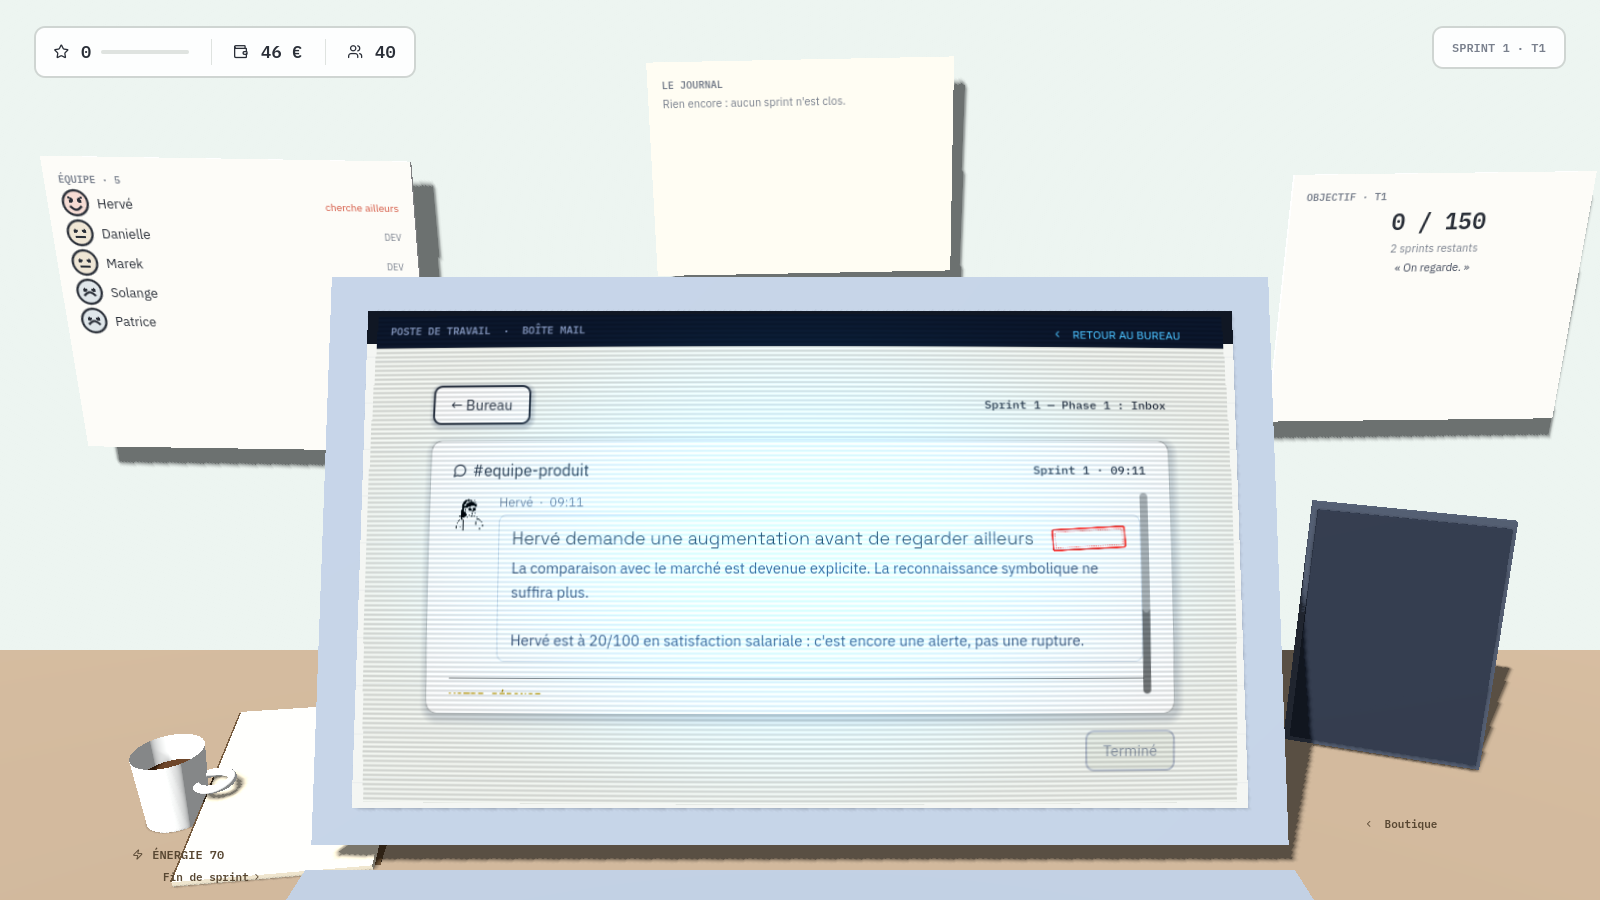
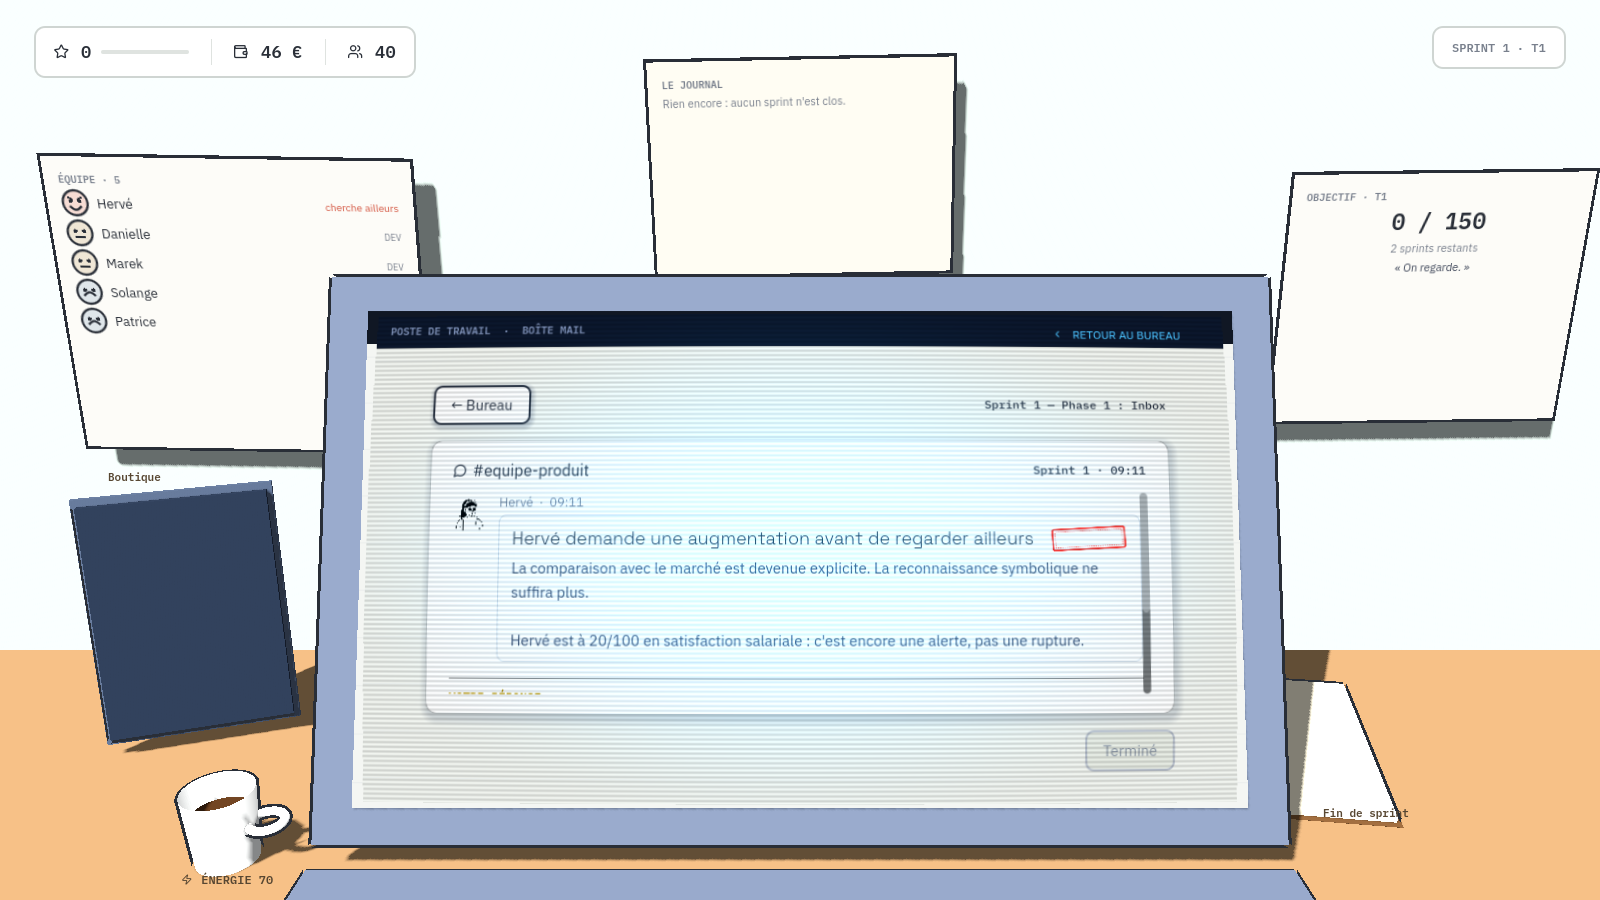
Inverse étal et clôture, et passe le décor en rendu dessiné
Deux retours de Camille sur le lot #59.

Le sens de lecture
------------------
L'étal du sprint passe à gauche, la clôture à droite. On achète avant
de clore, et l'œil va de gauche à droite : la première version
demandait de traverser l'écran à rebours pour finir son sprint. Le
parapheur du Comité reste à droite, derrière la clôture — il appartient
au même moment du sprint. La tasse suit à gauche, sous la tablette.

Le parti pris de rendu
----------------------
Le décor passe du réaliste au dessiné, par trois réglages mutualisés
dans `DeskRoom` :

- `toon_material()` coupe le dégradé en bandes (`DIFFUSE_TOON`),
  supprime le spéculaire et laisse la couleur redevenir franche ;
- `outline_at()` pose un trait d'encre par coque inversée — la seule
  technique qui ne dépende d'aucune fonctionnalité de renderer, et le
  projet reste en `gl_compatibility` ;
- l'épaisseur du trait se déclare **en pixels** et se convertit à la
  profondeur : déclarée dans le monde, elle faisait 6 px sur la tasse
  et 2 px sur les papiers du mur, où elle se rasterisait en pointillés.

Les papiers du mur font exception et portent un liseré coplanaire :
une coque inversée sur une plaque de 8 mm vue par la tranche donne un
pointillé le long du bord haut.

Carnet §37.9 et §37.10. Le piège du contour est remonté dans le
CLAUDE.md. Captures de recette régénérées.

Claude-Session: https://claude.ai/code/session_01MgPVycNWb86eJFccpBY3Dt

diff --git a/docs/carnet-de-regles.md b/docs/carnet-de-regles.md
@@ -2225,3 +2225,43 @@ Cinq assertions mécaniques remplacent la bonne volonté du relecteur :
   n'appelait jamais `resolve_unanswered_events()` : il jouait donc un jeu où
   ignorer son courrier était gratuit, et la règle la plus anti-passivité du lot
   n'était vérifiée nulle part.
+
+### 37.9 Le sens de lecture ordonne le plateau
+
+L'étal du sprint est **à gauche**, la clôture **à droite**. Ce n'est pas de la
+mise en page : on achète avant de clore, et l'œil va de gauche à droite. La
+première version du lot faisait l'inverse et demandait de traverser l'écran à
+rebours pour finir son sprint. Le parapheur du Comité reste à droite, derrière
+la clôture : il appartient au même moment du sprint.
+
+### 37.10 Le parti pris de rendu — dessiné, pas photographié
+
+Un dégradé continu sur une boîte, c'est une image de synthèse ; deux aplats
+séparés par une arête franche et cernés d'encre, c'est un objet de jeu. Trois
+réglages suffisent, et ils sont mutualisés dans `DeskRoom` pour que rien ne
+diverge :
+
+- **`toon_material()`** — `DIFFUSE_TOON` coupe le dégradé en bandes,
+  `SPECULAR_DISABLED` supprime le reflet qui trahissait la primitive, et la
+  couleur peut redevenir franche : un bois réaliste est terne, un bois de jeu
+  ne l'est pas ;
+- **`outline_at()`** — le trait de contour, par coque inversée (une copie du
+  maillage grossie le long de ses normales, peinte en encre unie, rendue face
+  arrière seulement). `gl_compatibility` n'a pas de post-traitement de
+  profondeur exploitable, et le projet reste sur ce renderer : la coque
+  inversée, elle, ne dépend d'aucune fonctionnalité de renderer ;
+- **l'épaisseur du trait se déclare en pixels**, pas en unités monde. Déclarée
+  dans le monde, elle faisait 6 px sur la tasse et 2 px sur les papiers du mur,
+  où elle se rasterisait en pointillés. De l'encre n'a pas de perspective.
+
+Deux règles pour ne pas s'y brûler, et les deux ont été apprises ici :
+**ne jamais poser de coque inversée sur un nœud dont on anime la `scale`** (le
+trait grossirait avec lui), et **ne pas en poser sur une plaque fine vue par la
+tranche** — la face supérieure de la coque se rasterise en pointillés le long
+du bord. Les papiers du mur utilisent donc un liseré : un quad d'encre à peine
+plus grand, dans le même plan, pour deux fois moins de géométrie et un trait
+franc.
+
+**Ce que ce n'est pas** : le lot d'habillage. Il n'y a toujours ni matière, ni
+texture, ni ambiance — seulement une façon d'éclairer et de cerner. La
+différence est visible, elle ne rend pas le bureau beau pour autant.

diff --git a/CLAUDE.md b/CLAUDE.md
@@ -217,6 +217,14 @@ score et de tous les écrans de phase.
   la taille du quad (jamais l'inverse) est la seule façon de ne pas rater ce
   défaut ; un test qui compare la taille projetée à la taille déclarée l'attrape
   mécaniquement (carnet §37.2).
+- **Un contour par coque inversée se déclare en pixels, pas en unités monde.**
+  Une épaisseur constante dans le monde s'amincit avec la distance : 6 px sur
+  un objet proche, 2 px sur un objet du fond — où elle se rasterise en
+  pointillés. Et deux cas où il ne faut pas l'employer du tout : sur un nœud
+  dont on anime la `scale` (le trait grossit avec lui), et sur une **plaque
+  fine vue par la tranche** — la face supérieure de la coque devient un
+  pointillé le long du bord. Là, un quad d'encre coplanaire à peine plus grand
+  fait mieux et coûte moins (carnet §37.10).
 - **Un cache `game/.godot` périmé ment.** Après l'ajout d'un script avec un
   `class_name` global, des erreurs du type `Nonexistent function … in base
   'Nil'` ou un autoload qui échoue au chargement **ressemblent** à une

diff --git a/docs/review-evidence/issue-59/README.md b/docs/review-evidence/issue-59/README.md
@@ -30,6 +30,14 @@ sont en volume : ombres portées réelles, tranches, perspective. Trois valeurs
 permanentes en haut à gauche, et rien d'autre en permanence. Aucun élément ne
 prend la largeur ni la hauteur du cadre.
 
+Deux choses à vérifier ici en particulier :
+
+- **le sens de lecture** — l'étal du sprint est à gauche, la clôture à droite.
+  On achète avant de clore, et l'œil va de gauche à droite ;
+- **le rendu dessiné** — aplats francs séparés par des arêtes nettes, trait
+  d'encre autour de chaque silhouette. Ce n'est pas l'habillage (il n'y a
+  toujours ni matière ni ambiance), c'est une façon d'éclairer et de cerner.
+
 ### `alerte/desk_calme.png` — l'état d'alerte se lit sur le mur
 
 ![Le bureau en alerte](alerte/desk_calme.png)
